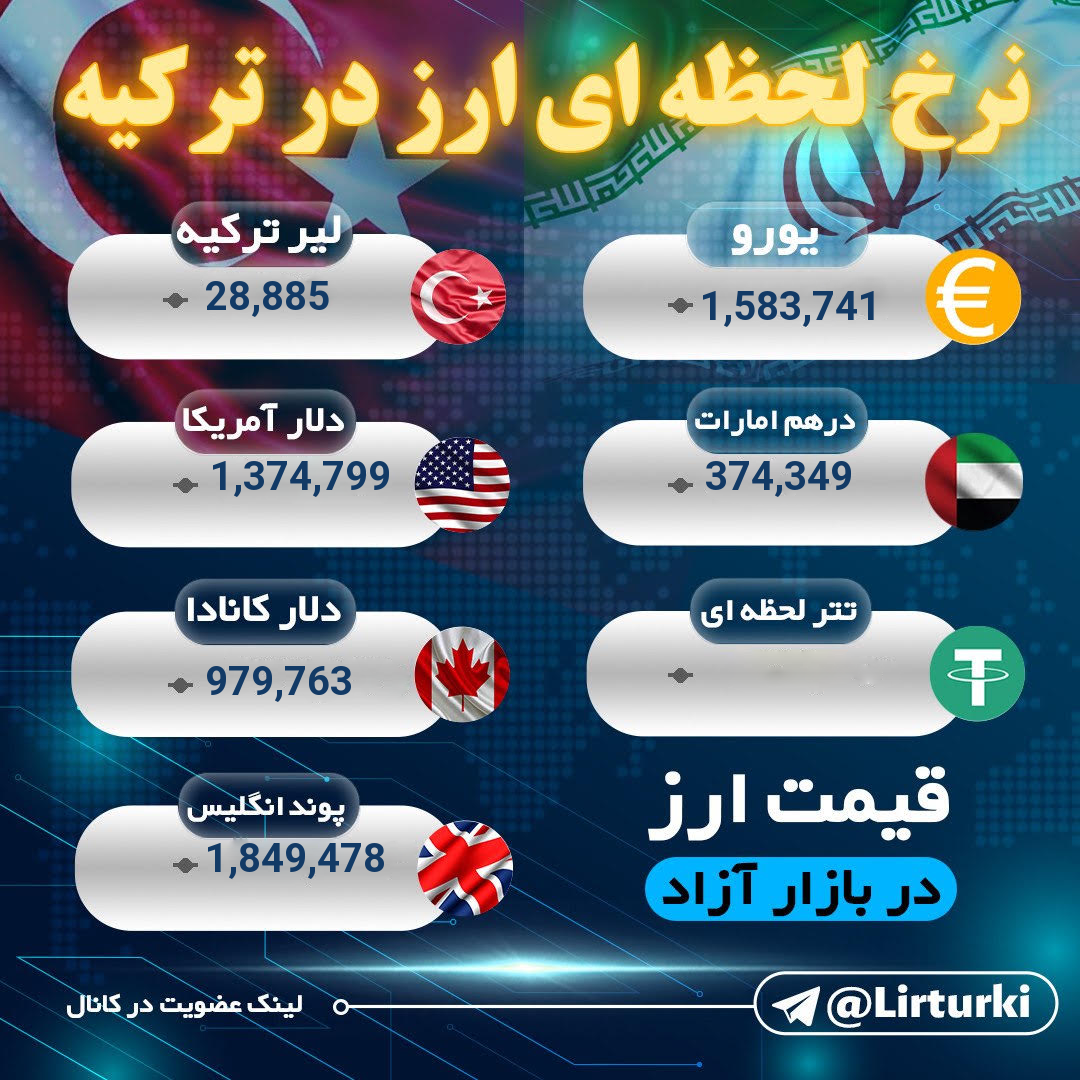
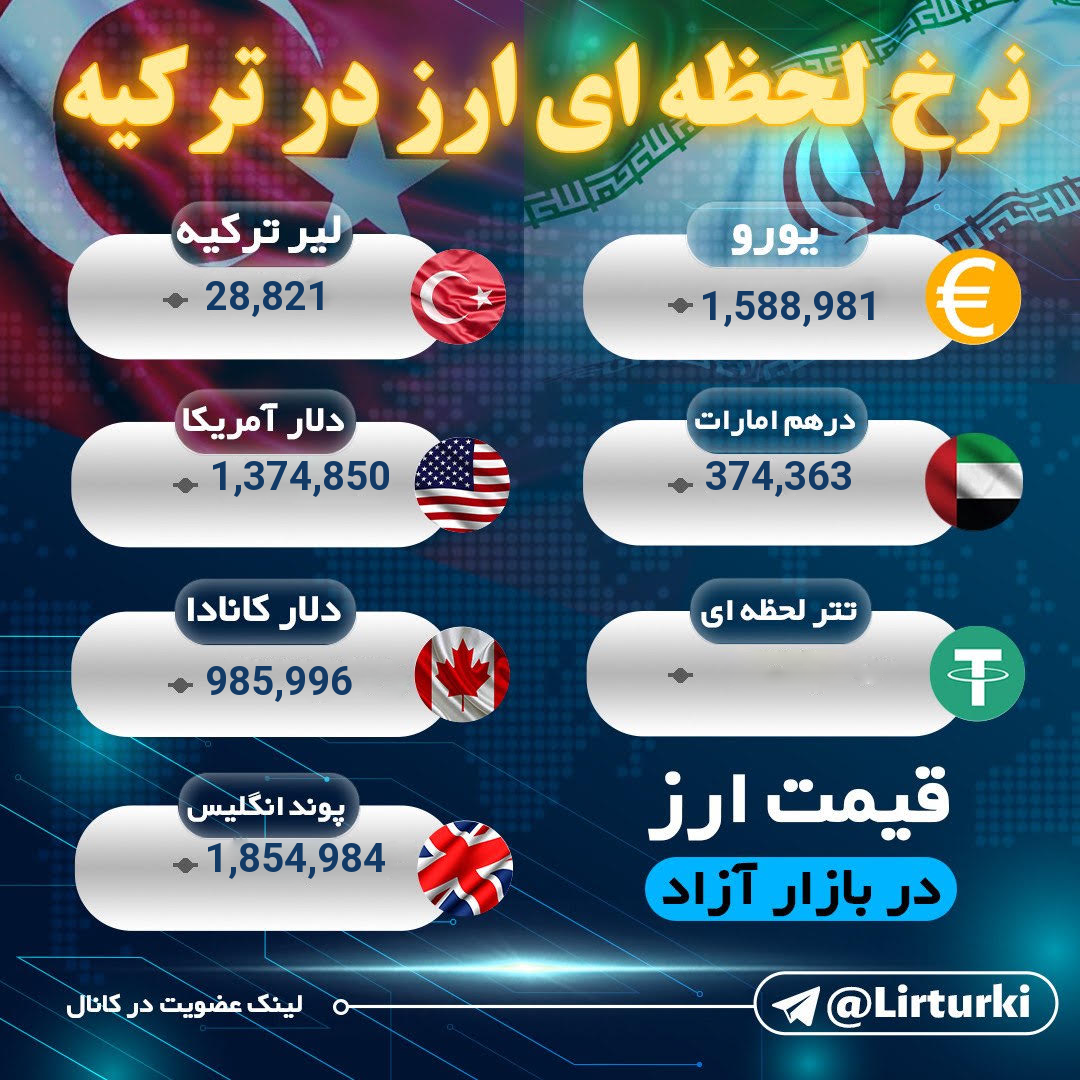
security added using dotenv and scheduler ready for action

diff --git a/exhange_rate/config/provider_config_repository.py b/exhange_rate/config/provider_config_repository.py
@@ -1,3 +1,7 @@
+import os
+
+from dotenv import load_dotenv
+
 from exhange_rate.models.provider_config import ProviderConfig
 from exhange_rate.models.base_config import HttpMethod
 
@@ -8,7 +12,7 @@ from exhange_rate.mappers.brsap import BrsapMapper
 from exhange_rate.mappers.exchangerate import ExchangeMapper
 from exhange_rate.providers.exchangerate import ExchangeProvider
 
-
+load_dotenv()
 class ProviderConfigRepository:
 
     configs = {
@@ -21,7 +25,7 @@ class ProviderConfigRepository:
             auth={
                 "type":"query_param",
                 "key_name":"key",
-                "value":"BNeKH7naELKszrLWD42pr9juKsJG3t3w"
+                "value":os.getenv("BRSAPI_TOKEN")
             }
         ),
         "navasan": ProviderConfig(
@@ -30,7 +34,7 @@ class ProviderConfigRepository:
             auth={
                 "type":"query_param",
                 "key_name":"api_key",
-                "value":"freenx5KrlKZ3oZb4bknlAIQIGRuEARF"
+                "value":os.getenv("NAVASAN_TOKEN")
             }
         ),
         "exchange_rate": ProviderConfig(
@@ -39,7 +43,7 @@ class ProviderConfigRepository:
             auth={
                 "type":"query_param",
                 "key_name":"access_key",
-                "value":"62e450907cd9d381877e9ca2e4e56e8b"
+                "value":os.getenv("EXCHANGE_TOKEN")
             },
             query_params={
                 "source":"IRR"

diff --git a/main.py b/main.py
@@ -1,20 +1,30 @@
 import asyncio
+import os
+
+from apscheduler.schedulers.asyncio import AsyncIOScheduler
+from apscheduler.triggers.interval import IntervalTrigger
+
+from dotenv import load_dotenv
+
 from telegram_bot.bot.telegram_client import TelegramClient
 from telegram_bot.services.publisher import CurrencyPublisher
-
 from telegram_bot.services.exchange_rate_service import ExchangeRateService
 
-async def main():
+load_dotenv()
 
+async def job():
+    
     exchange_service = ExchangeRateService(
         "exchange_rate"
     )
 
     telegram_client = TelegramClient(
-        token="8634927023:AAHFae9lPTHAjVKWs1WED-_S4M-15k_YTuA"
+        token=os.getenv("TELEGRAM_BOT_TOKEN")
     )
 
     updates = await telegram_client.bot.get_updates()
+    
+    print(updates)
 
     for update in updates:
         
@@ -27,6 +37,18 @@ async def main():
         )
 
         await publisher.publish()
+        
+        
 
+async def main():
+            
+    scheduler = AsyncIOScheduler()
+
+    scheduler.add_job(job, IntervalTrigger(minutes=5))
+
+    scheduler.start()
+    
+    await asyncio.Event().wait()
+    
 if __name__ == "__main__":
     asyncio.run(main())
